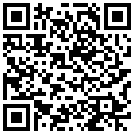
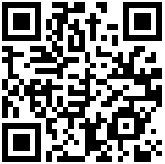
Update Expo settings

diff --git a/README.md b/README.md
@@ -1,0 +1,11 @@
+# Giftinformation
+"Råd vid förgiftningstillbud" as an app.
+
+Work in progress.
+
+## Expo
+
+https://expo.io/@davidpaulsson/giftinformation
+
+Scan this QR code with your Expo mobile app to load the project immediately.
+![QR Code](https://github.com/davidpaulsson/Giftinformation/blob/master/qr.png?raw=true)
